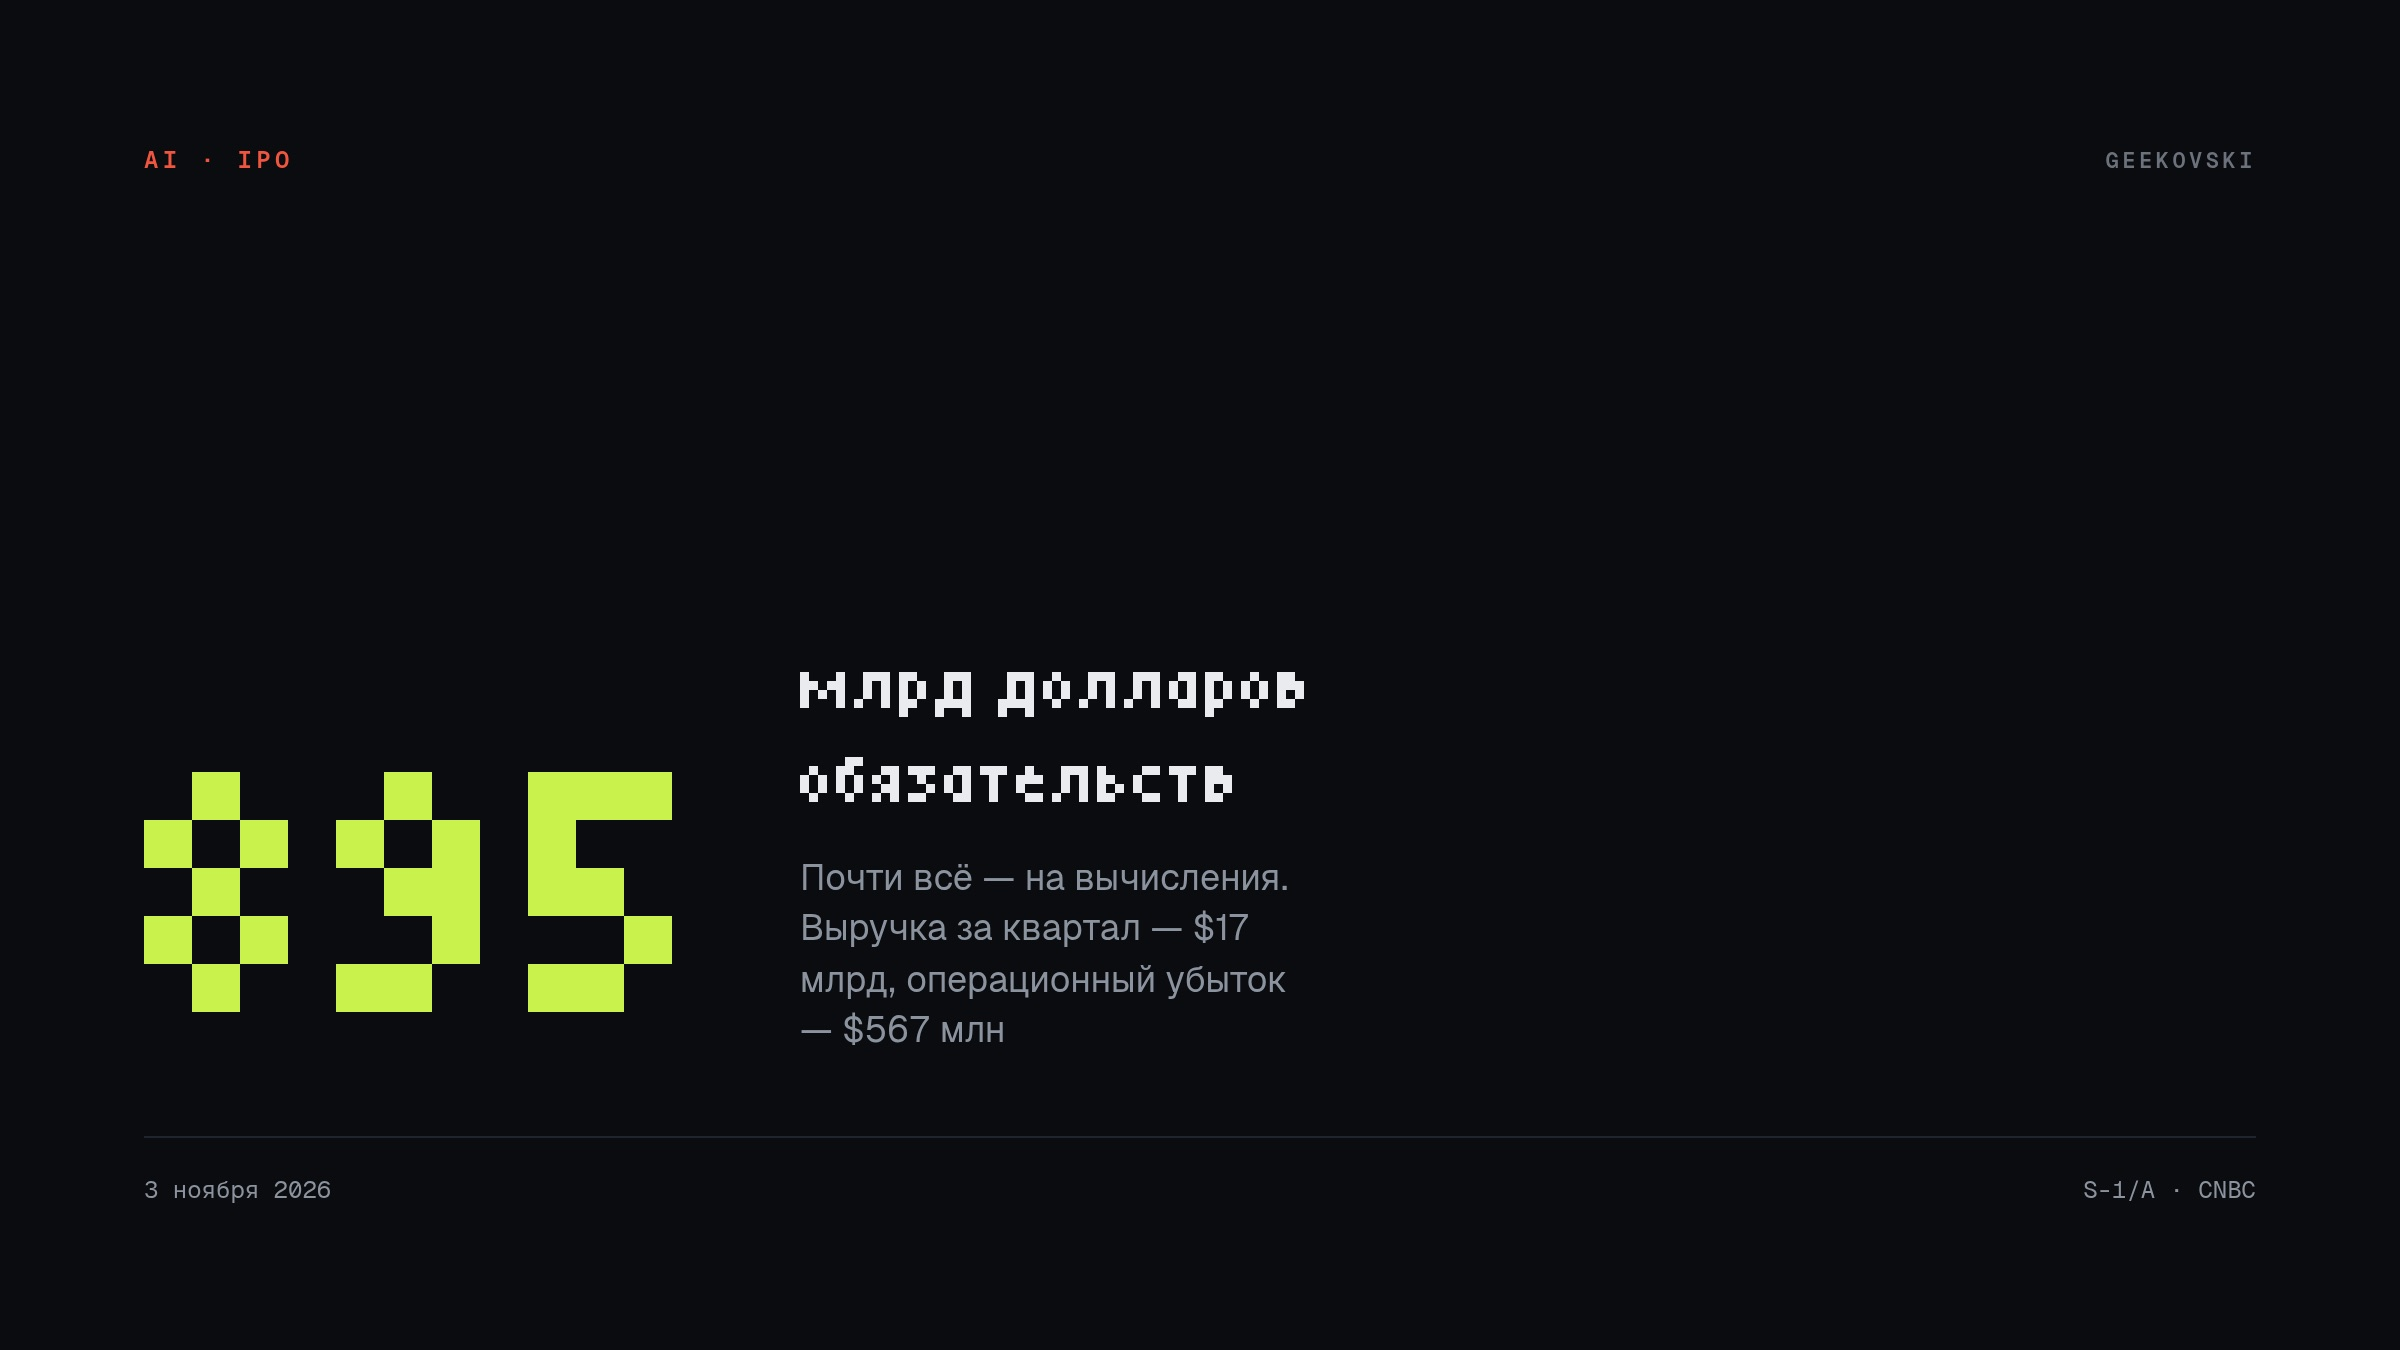
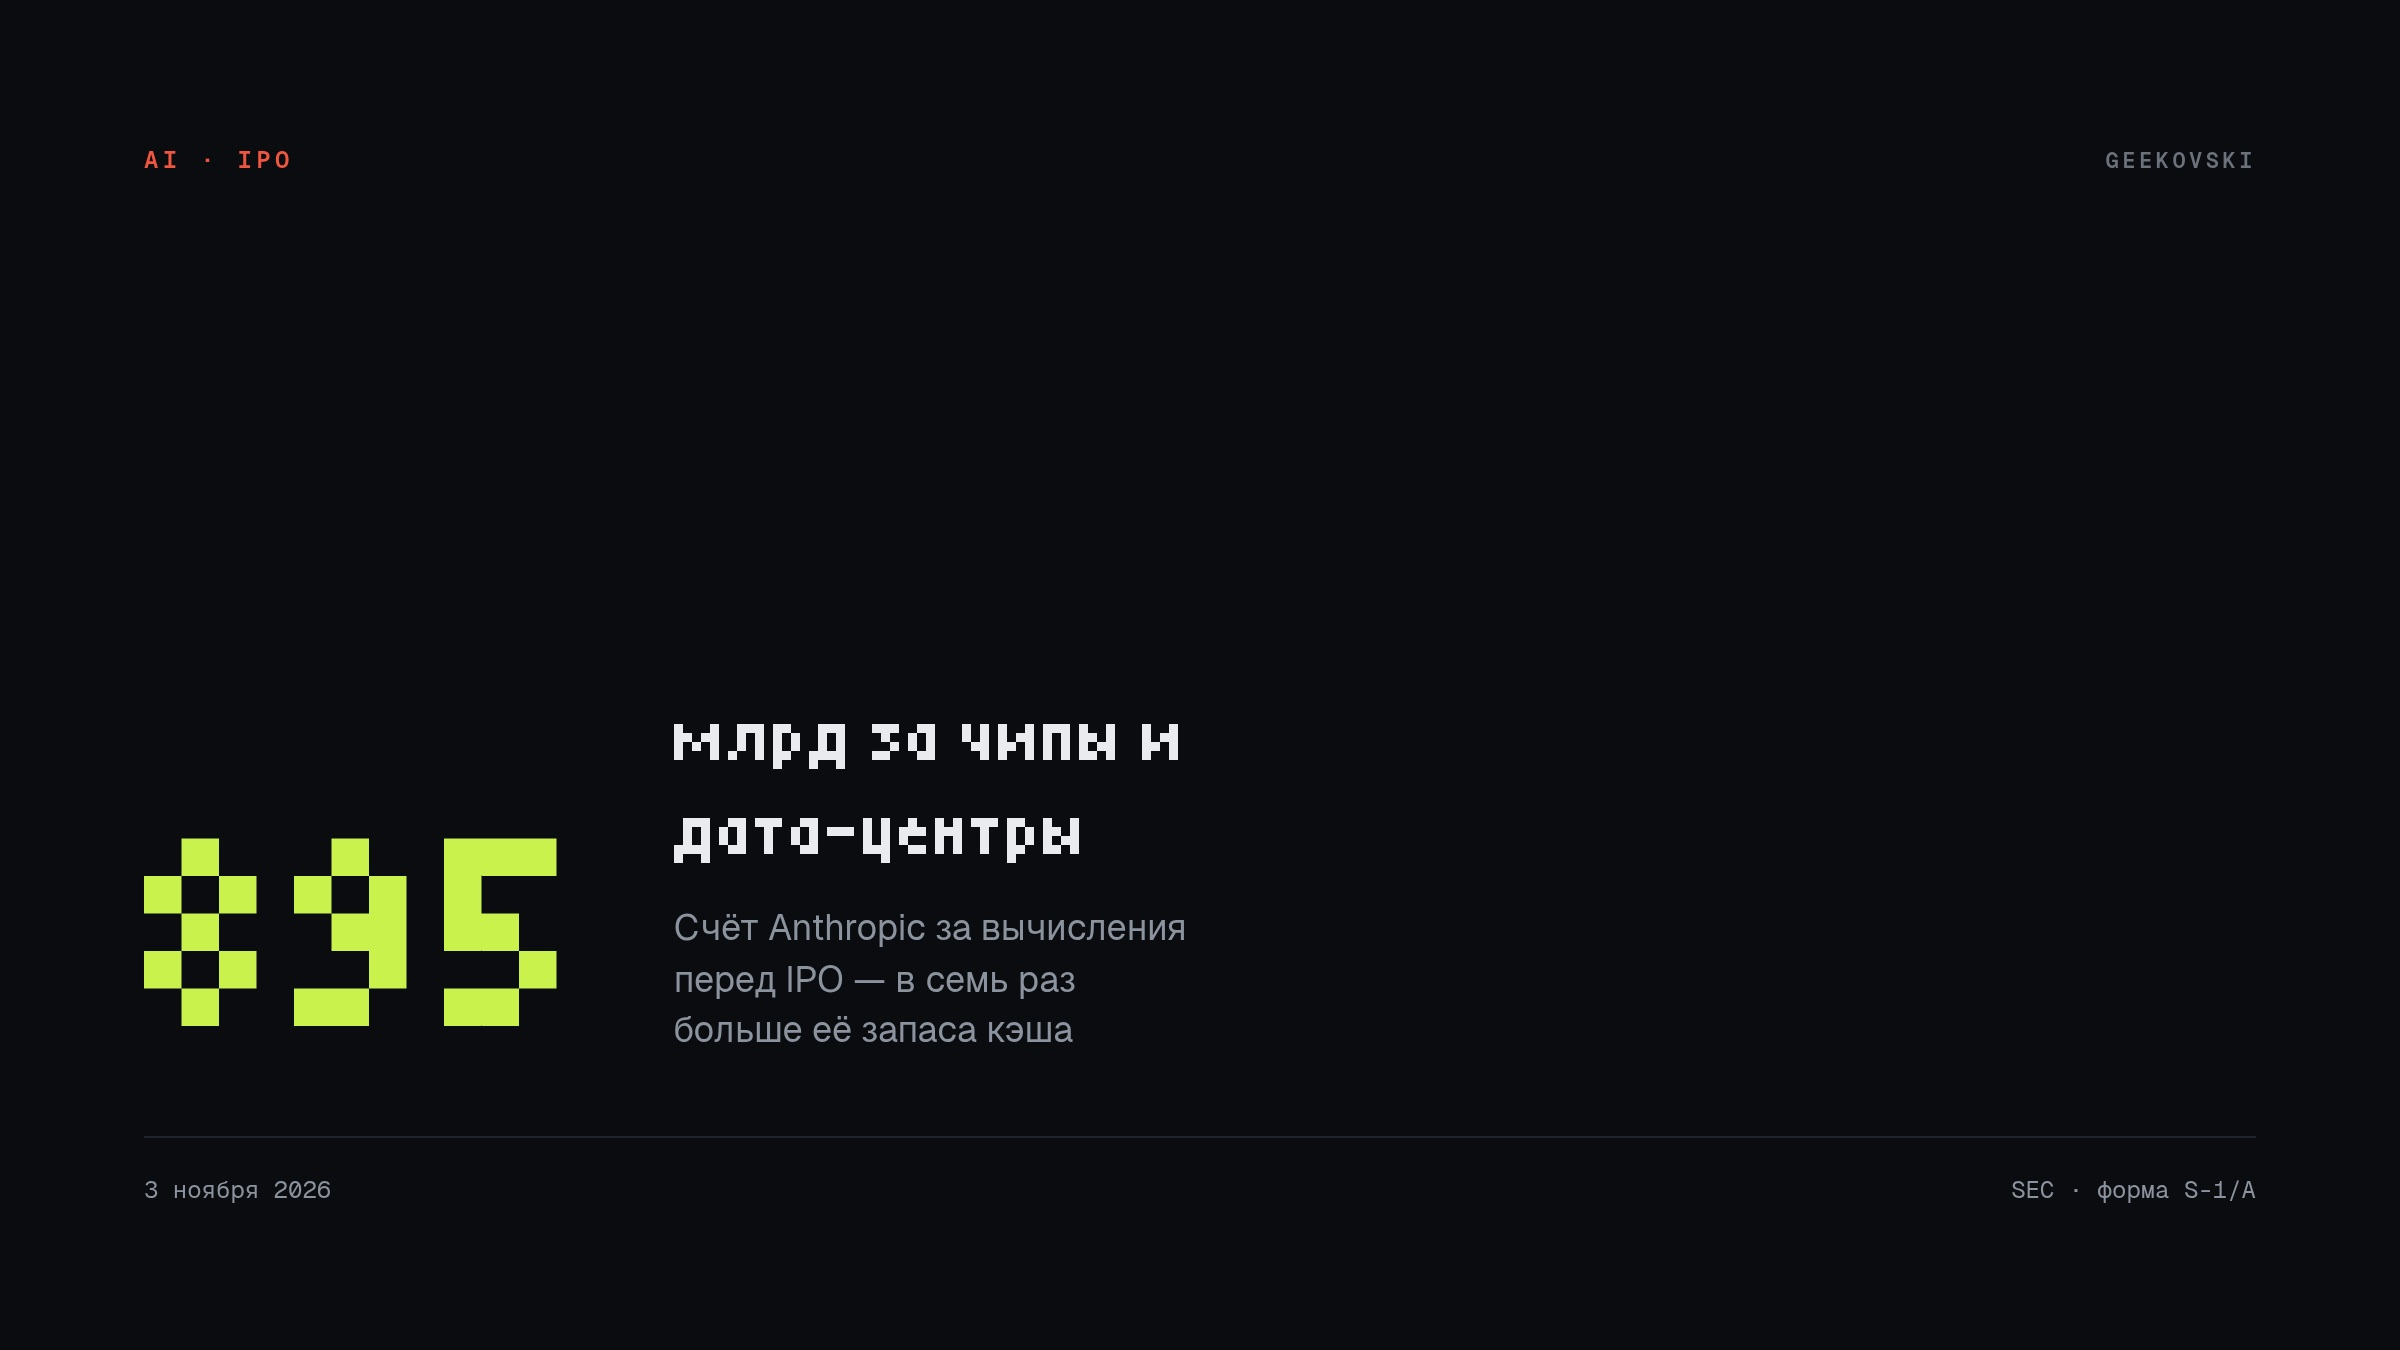
fix: атрибуция в разборе про S-1 Anthropic
Темпы роста — это расчёт по цифрам проспекта, а не цитата CNBC;
Microsoft — не менее $44,9 млрд до 2033 года (проспект, GovCon Wire).
Картинки сверены с тем, что уже задеплоено.

Changed region(s): [[0.0625, 0.4978, 0.5625, 0.7778], [0.8438, 0.8711, 0.9375, 0.9022]]

diff --git a/docs/anthropic-ipo-895-mlrd.html b/docs/anthropic-ipo-895-mlrd.html
@@ -43,13 +43,13 @@
   <div class="post__body"><p>2 ноября Anthropic подала в SEC обновлённый проспект к IPO — форму S-1/A, где впервые появились результаты за третий квартал, июль–сентябрь. Самое интересное в этом документе не выручка, а счёт за железо.</p>
 <h2>Квартал на $17 млрд</h2>
 <p>Выручка за квартал — $16,96 млрд, это рост на 1 127% год к году. За девять месяцев — $33,24 млрд при чистом убытке $104 млрд: основная часть убытка приходится на переоценку конвертируемых нот и деривативов, а не на денежные расходы (CNBC).</p>
-<p>Темпы при этом замедляются: +132% к предыдущему кварталу в первом, +144% во втором и около +47% в третьем (CNBC).</p>
+<p>Темпы при этом замедляются: +132% к предыдущему кварталу в первом, +144% во втором и около +47% в третьем (расчёт по цифрам из проспекта).</p>
 <figure class="post__fig"><img src="/assets/img/anthropic-datacenter.jpg" alt="Стойки в дата-центре: почти все обязательства Anthropic — вычисления и инфраструктура" loading="lazy"><figcaption>Стойки в дата-центре: почти все обязательства Anthropic — вычисления и инфраструктура</figcaption></figure>
 <p>Отдельно про прибыльность. Во втором квартале компания впервые показала операционную прибыль — $974 млн, а в третьем ушла в операционный убыток $567 млн. В проспекте это объясняют закупкой $5 млрд краткосрочных вычислений, которые «значительно дороже» долгосрочных контрактов, и $2 млрд неденежного списания по программе матчинга донатов (Yahoo Finance).</p>
 <h2>Счёт на $895 млрд</h2>
 <p>Суммарные обязательства по закупкам и аренде — $895,4 млрд, почти все они про вычисления и дата-центры. Около $70 млрд нужно закрыть в течение года, примерно $450 млрд — до конца 2030-го (Yahoo Finance).</p>
 <p>Для сравнения: кэша и краткосрочных инвестиций на конец сентября было около $132 млрд, то есть счёт почти в семь раз больше.</p>
-<p>Кому платить: Broadcom — около $161 млрд за лизинг оборудования, Google — примерно $121 млрд, ИИ-подразделение SpaceX — до $120,5 млрд, Amazon — $110 млрд, Microsoft — $44,9 млрд (Yahoo Finance).</p>
+<p>Кому платить: Broadcom — около $161 млрд за лизинг оборудования, Google — примерно $121 млрд, ИИ-подразделение SpaceX — до $120,5 млрд, Amazon — $110 млрд, Microsoft — не менее $44,9 млрд до 2033 года (Yahoo Finance, проспект).</p>
 <figure class="post__fig"><img src="/assets/img/anthropic-chips.jpg" alt="Память SK hynix на плате: чипы и стойки под этими контрактами оплачены на годы вперёд" loading="lazy"><figcaption>Память SK hynix на плате: чипы и стойки под этими контрактами оплачены на годы вперёд</figcaption></figure>
 <h2>Что с этой выручкой не так — оценка</h2>
 <p>Дальше — моя оценка, не факты из документа. Anthropic поставила на то, что спрос на Claude будет расти быстрее, чем придут счета за вычисления. Против играет замедление: 47% квартального роста после 144% — уже торможение, а обязательства зафиксированы на годы.</p>

diff --git a/content/posts/anthropic-ipo-895-mlrd.md b/content/posts/anthropic-ipo-895-mlrd.md
@@ -14,7 +14,7 @@ sources: CNBC — обновлённый проспект S-1/A | https://www.cn
 
 Выручка за квартал — $16,96 млрд, это рост на 1 127% год к году. За девять месяцев — $33,24 млрд при чистом убытке $104 млрд: основная часть убытка приходится на переоценку конвертируемых нот и деривативов, а не на денежные расходы (CNBC).
 
-Темпы при этом замедляются: +132% к предыдущему кварталу в первом, +144% во втором и около +47% в третьем (CNBC).
+Темпы при этом замедляются: +132% к предыдущему кварталу в первом, +144% во втором и около +47% в третьем (расчёт по цифрам из проспекта).
 
 ![Стойки в дата-центре: почти все обязательства Anthropic — вычисления и инфраструктура](/assets/img/anthropic-datacenter.jpg)
 
@@ -26,7 +26,7 @@ sources: CNBC — обновлённый проспект S-1/A | https://www.cn
 
 Для сравнения: кэша и краткосрочных инвестиций на конец сентября было около $132 млрд, то есть счёт почти в семь раз больше.
 
-Кому платить: Broadcom — около $161 млрд за лизинг оборудования, Google — примерно $121 млрд, ИИ-подразделение SpaceX — до $120,5 млрд, Amazon — $110 млрд, Microsoft — $44,9 млрд (Yahoo Finance).
+Кому платить: Broadcom — около $161 млрд за лизинг оборудования, Google — примерно $121 млрд, ИИ-подразделение SpaceX — до $120,5 млрд, Amazon — $110 млрд, Microsoft — не менее $44,9 млрд до 2033 года (Yahoo Finance, проспект).
 
 ![Память SK hynix на плате: чипы и стойки под этими контрактами оплачены на годы вперёд](/assets/img/anthropic-chips.jpg)
 
